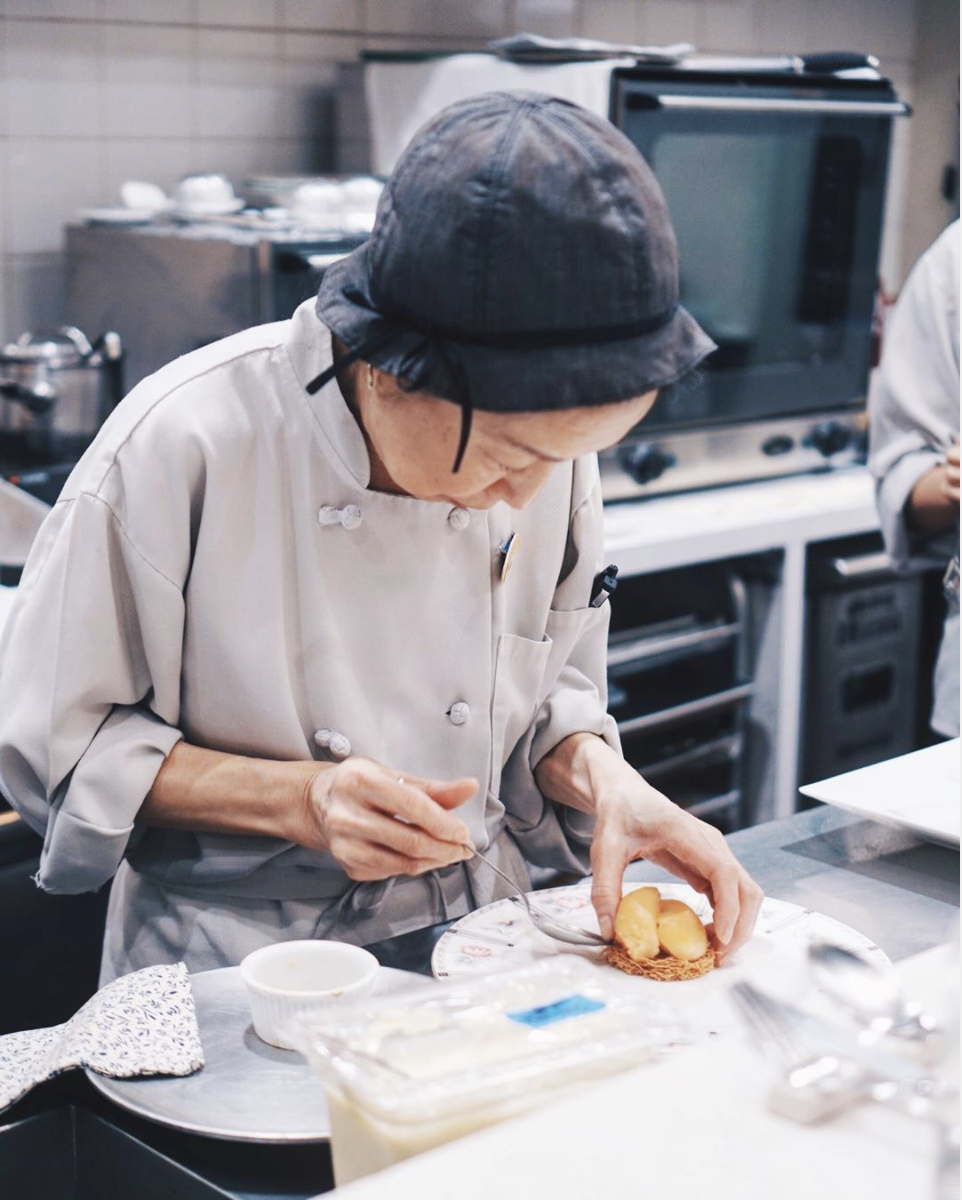
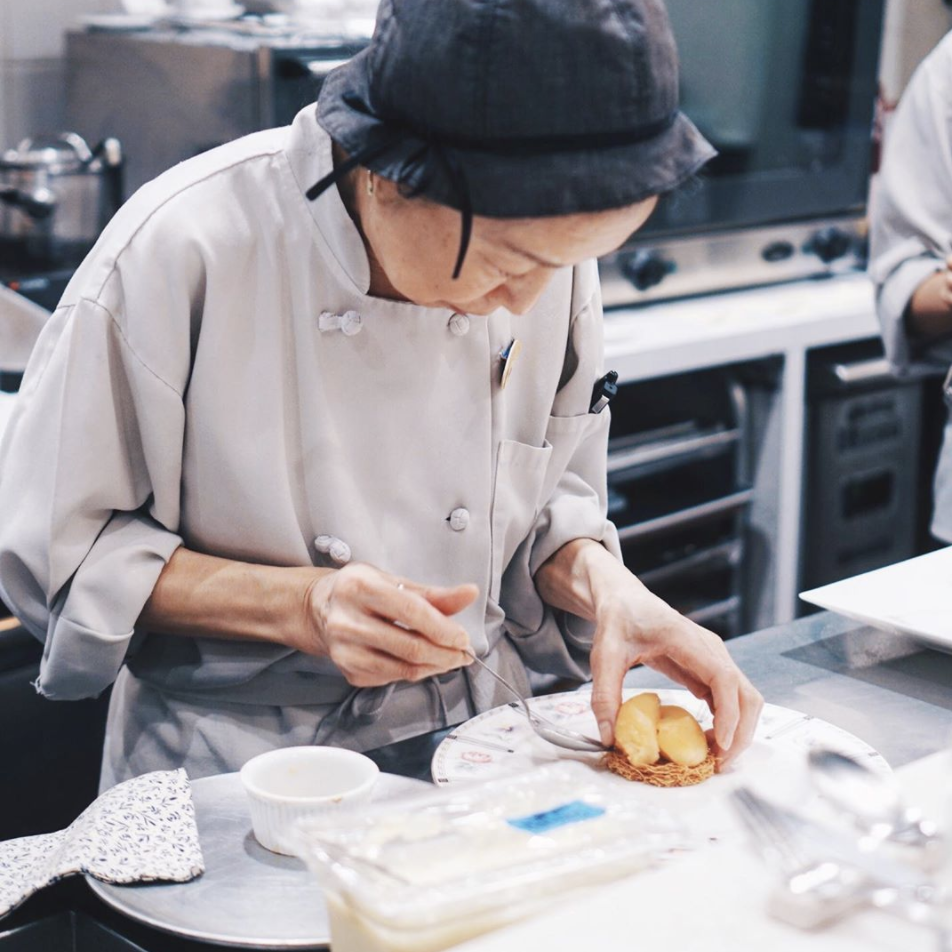
css updates on hero, grid and mobile hero

diff --git a/chika/src/components/PhotoGallery/PhotoGallery.css b/chika/src/components/PhotoGallery/PhotoGallery.css
@@ -40,7 +40,7 @@
 .instagram-photo-div8 {
   display: grid;
   width: 240px;
-  height: 150px;
+  height: 240px;
   overflow: hidden;
   background-position: center;
   background-size: 95%;
